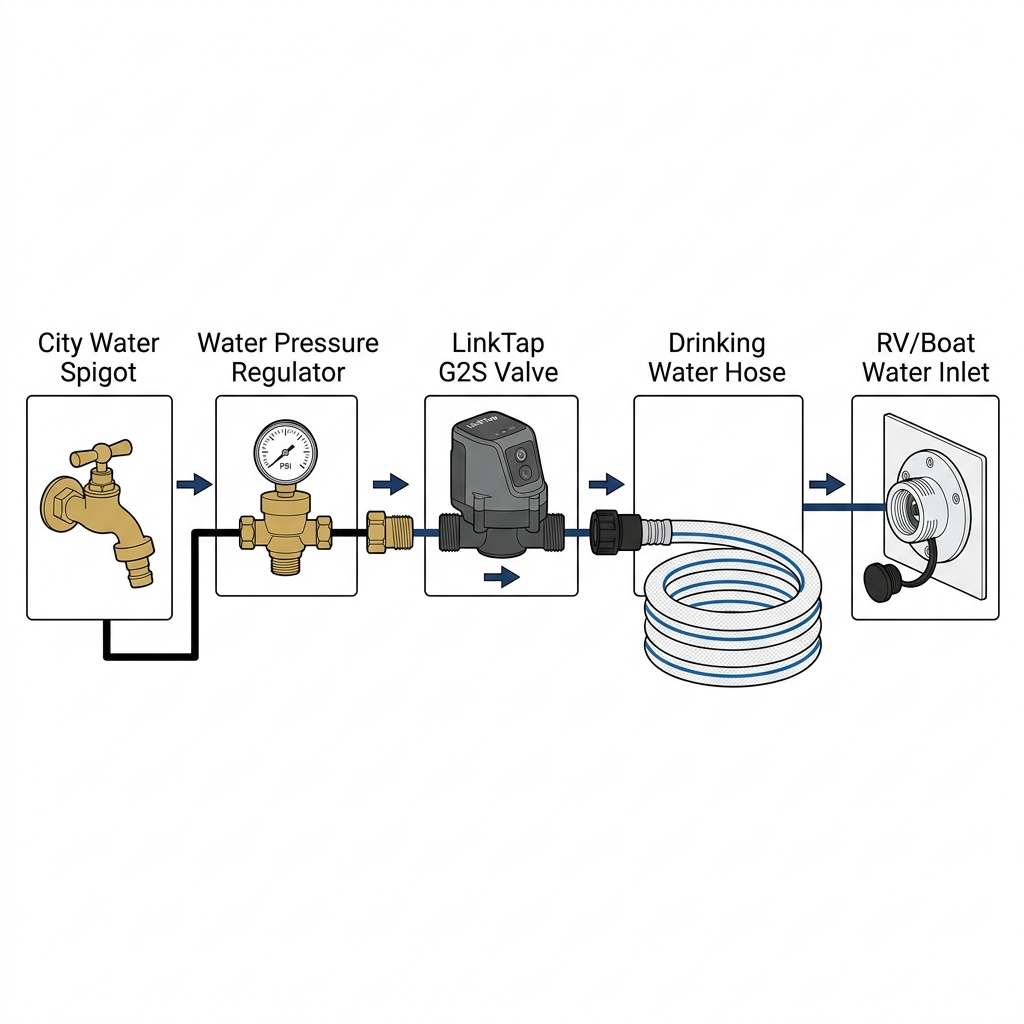
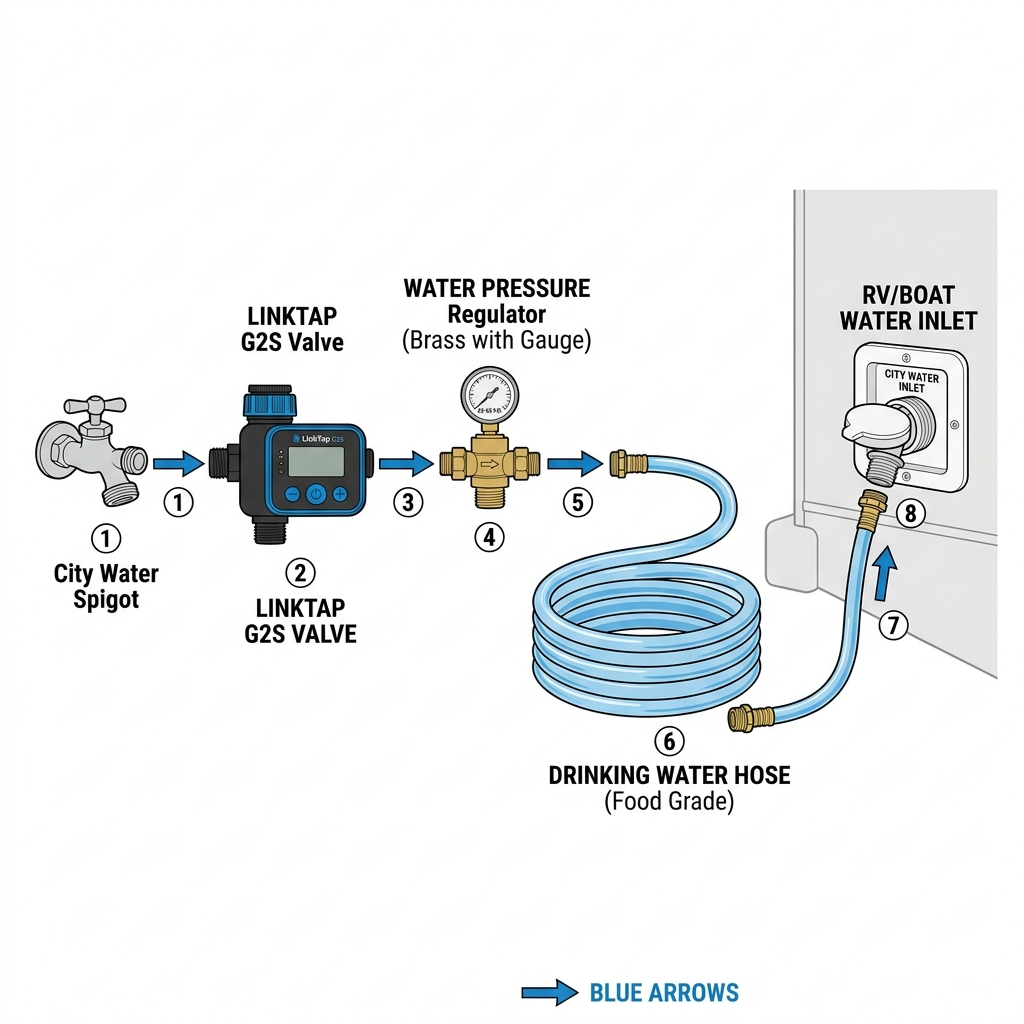
docs: swap valve and regulator sequence in instructions and diagram

Changed region(s): [[0.0312, 0.1875, 1.0, 0.8125], [0.5, 0.9375, 0.7188, 1.0]]

diff --git a/index.html b/index.html
@@ -72,7 +72,7 @@
       <ul>
         <li><strong>LinkTap Gateway (GW-01 or GW-02):</strong> Required to bridge your home Wi-Fi network to the LinkTap Valve and support the necessary Local API endpoints.</li>
         <li><strong>LinkTap G2S Valve (TapLinker):</strong> Must be the G2S (or newer G1S/G4S) model because it includes a built-in flow meter. Older generations (like the G1) lack flow meters and cannot be used for volume-based auto-shutoffs.</li>
-        <li><strong>Water Pressure Regulator:</strong> (Recommended) Always install a standard RV/Boat water pressure regulator <em>before</em> the LinkTap valve to protect the smart valve from high-pressure dock water.</li>
+        <li><strong>Water Pressure Regulator:</strong> (Recommended) Always install a standard RV/Boat water pressure regulator <em>after</em> the LinkTap valve to ensure the water pressure entering your RV or Boat is safely reduced to 40-50 PSI.</li>
       </ul>
     </section>
 